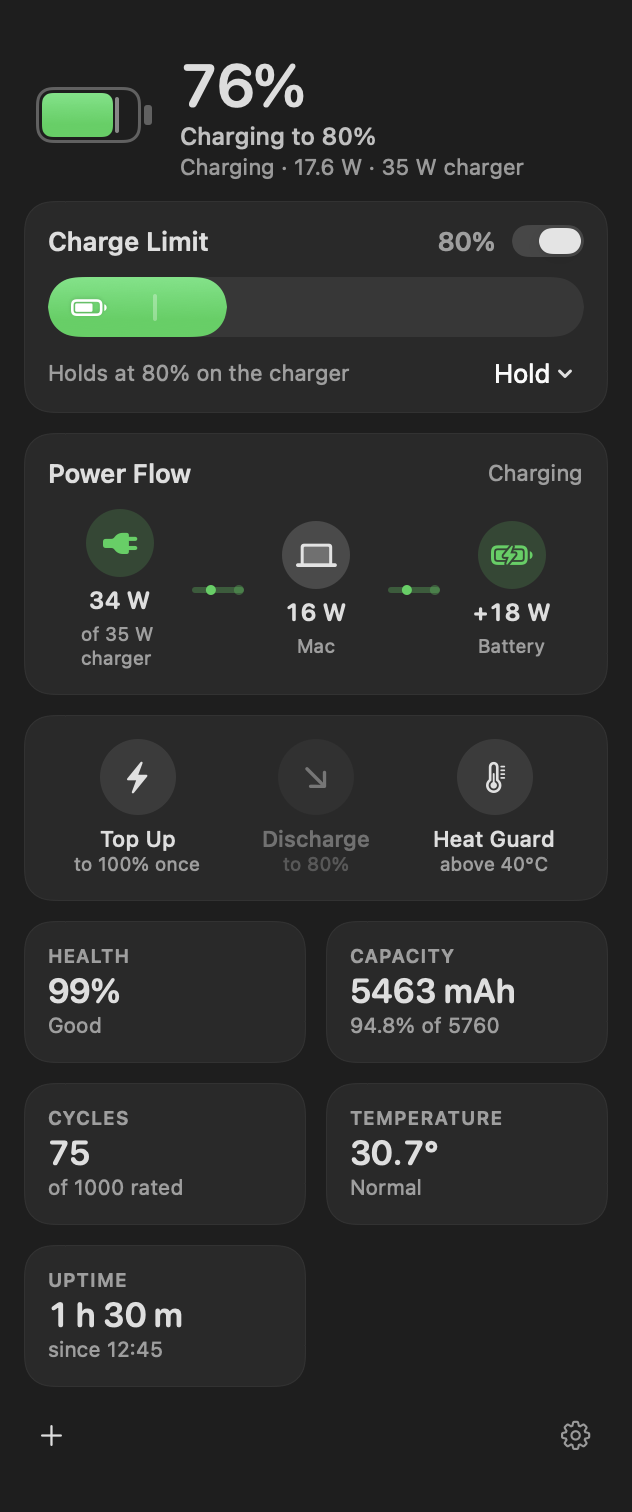
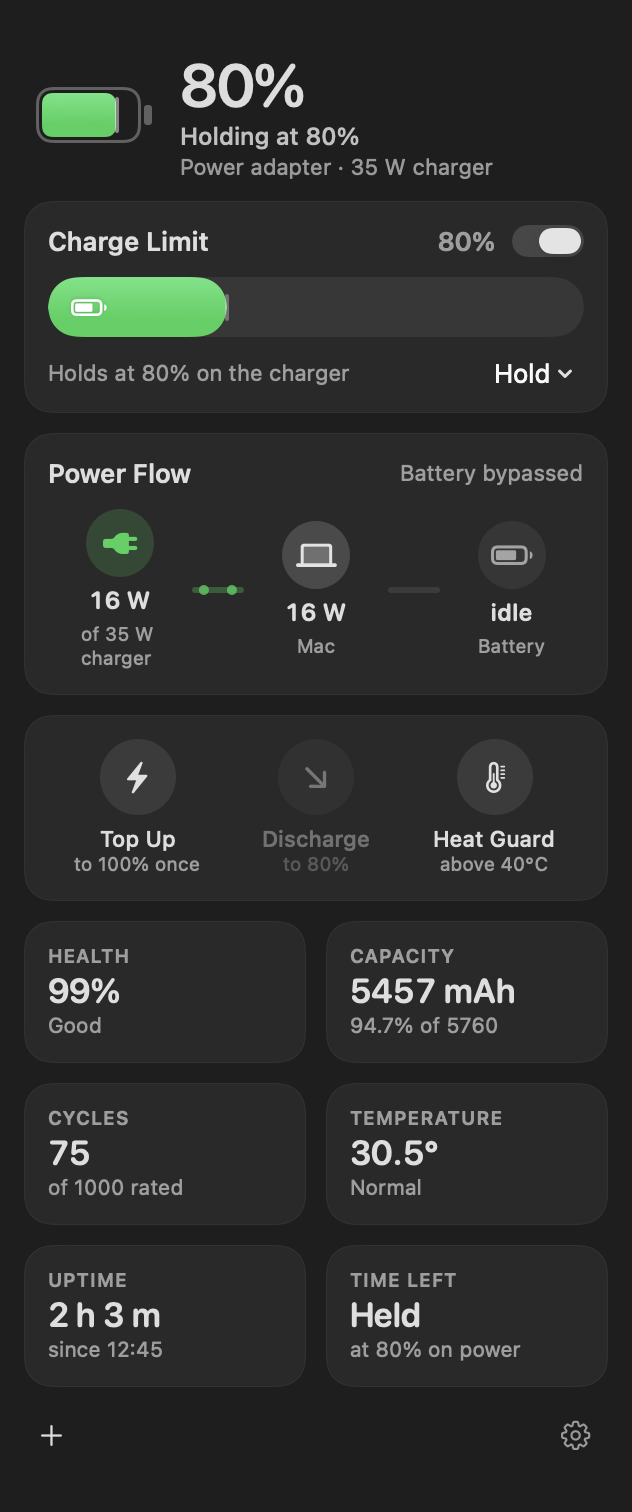
Add a Time Left stat tile
On battery it shows macOS's estimate; while charging, the time to the
limit (or 100% during a top-up) from the missing charge and the current
flowing in; "Held" once it's sitting at the limit.

diff --git a/Sources/BatteryHealth/PanelView.swift b/Sources/BatteryHealth/PanelView.swift
@@ -235,6 +235,27 @@ struct PanelView: View {
         return f.string(from: up.bootDate)
     }
 
+    private static func duration(_ minutes: Int) -> String {
+        minutes >= 60 ? "\(minutes / 60) h \(minutes % 60) m" : "\(minutes) m"
+    }
+
+    /// On battery: macOS's estimate. Charging: time to the limit (or 100%),
+    /// from the charge still missing and the current flowing in.
+    private func timeLeft(_ b: BatterySnapshot) -> (value: String, detail: String) {
+        if !b.externalConnected {
+            guard let m = b.timeRemainingMinutes else { return ("—", "Calculating…") }
+            return (Self.duration(m), "on battery")
+        }
+        let target = model.config.limitEnabled && !model.config.topUpToFull ? model.config.upperLimit : 100
+        if b.isCharging, b.amperageA > 0.05, b.percent < target {
+            let missingmAh = Double(target - b.percent) / 100 * Double(max(b.nominalCapacity, b.rawMaxCapacity))
+            let minutes = Int((missingmAh / (b.amperageA * 1000) * 60).rounded(.up))
+            return (Self.duration(max(1, minutes)), "to \(target)%")
+        }
+        if b.isCharging { return ("—", "Calculating…") }
+        return b.percent >= target - 1 ? ("Held", "at \(target)% on power") : ("—", "on power adapter")
+    }
+
     private struct StatItem: Identifiable {
         let item: PanelItem
         let value: String
@@ -256,6 +277,8 @@ struct PanelView: View {
         if let up = model.uptime {
             all.append(StatItem(item: .uptime, value: up.shortText, detail: uptimeDetail(up)))
         }
+        let t = timeLeft(b)
+        all.append(StatItem(item: .timeLeft, value: t.value, detail: t.detail))
         let order = layout.statOrder
         return all.filter { shows($0.item) }
             .sorted { order.firstIndex(of: $0.item)! < order.firstIndex(of: $1.item)! }

diff --git a/Sources/BatteryHealth/PanelCustomization.swift b/Sources/BatteryHealth/PanelCustomization.swift
@@ -3,10 +3,10 @@ import SwiftUI
 /// Parts of the panel people can hide. The charge limit itself always stays.
 enum PanelItem: String, CaseIterable {
     case powerFlow, quickActions
-    case health, capacity, cycles, temperature, uptime
+    case health, capacity, cycles, temperature, uptime, timeLeft
 
     static let modules: [PanelItem] = [.powerFlow, .quickActions]
-    static let stats: [PanelItem] = [.health, .capacity, .cycles, .temperature, .uptime]
+    static let stats: [PanelItem] = [.health, .capacity, .cycles, .temperature, .uptime, .timeLeft]
 
     var title: String {
         switch self {
@@ -17,6 +17,7 @@ enum PanelItem: String, CaseIterable {
         case .cycles: "Cycles"
         case .temperature: "Temperature"
         case .uptime: "Uptime"
+        case .timeLeft: "Time Left"
         }
     }
 
@@ -29,6 +30,7 @@ enum PanelItem: String, CaseIterable {
         case .cycles: "arrow.triangle.2.circlepath"
         case .temperature: "thermometer.medium"
         case .uptime: "clock"
+        case .timeLeft: "hourglass"
         }
     }
 }

diff --git a/README.md b/README.md
@@ -29,6 +29,7 @@ The limit is enforced by the battery firmware itself, so it keeps working while 
   and the charger is always reconnected before sleep.
 - **Health.** Maximum capacity as macOS reports it, plus the raw measured capacity, cycle count and temperature.
 - **Uptime.** How long the Mac has been on since its last restart, with an optional reminder to restart after 72 hours.
+- **Time Left.** On battery, how long it lasts; while charging, how long until the limit.
 - **Your panel, your way.** Hover over a section or stat and click − to hide it, bring it back with + at the bottom of the panel, and drag the stat tiles to reorder them.
 
 ## Install
